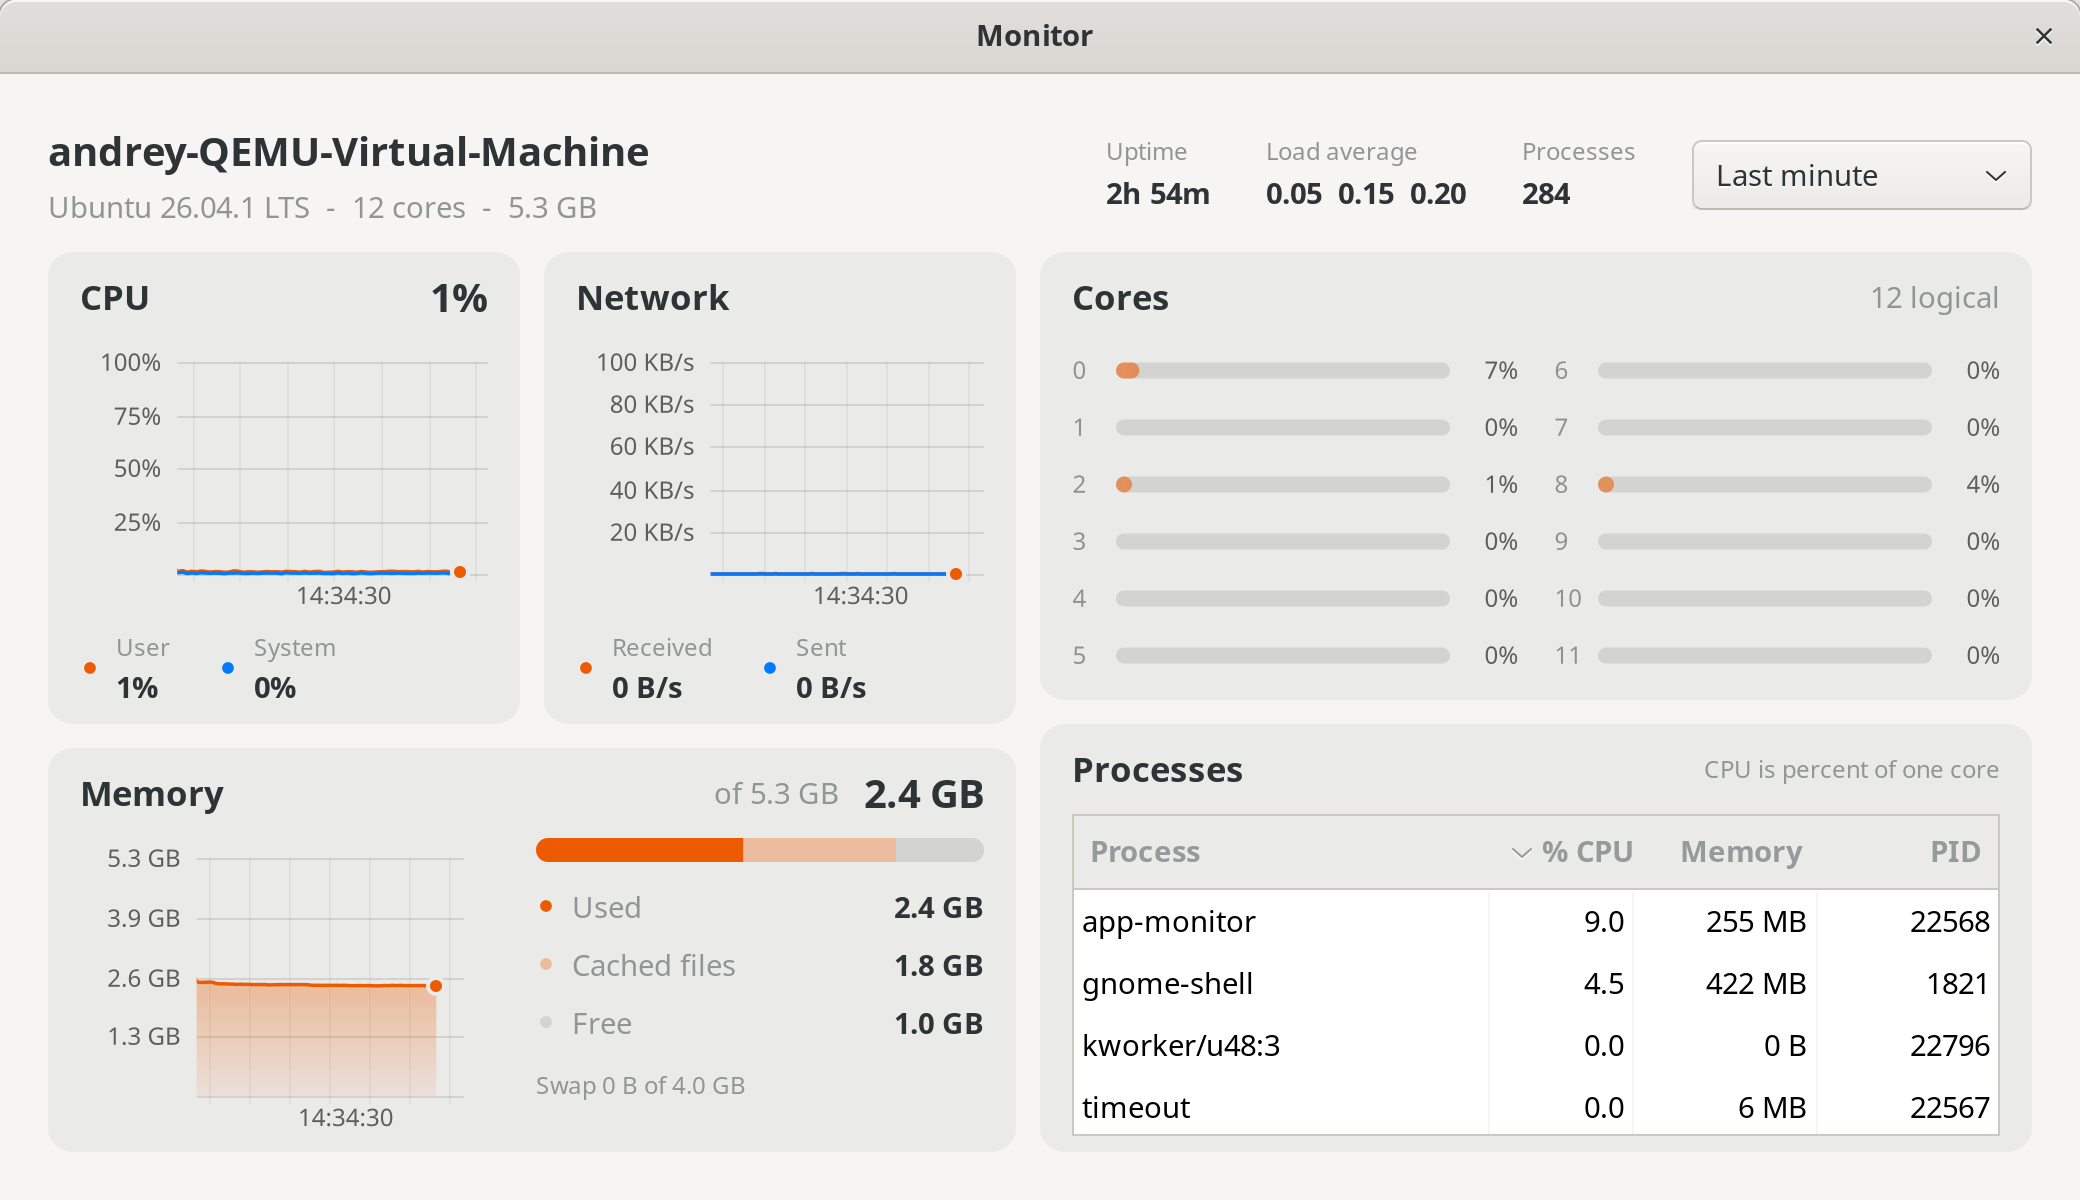
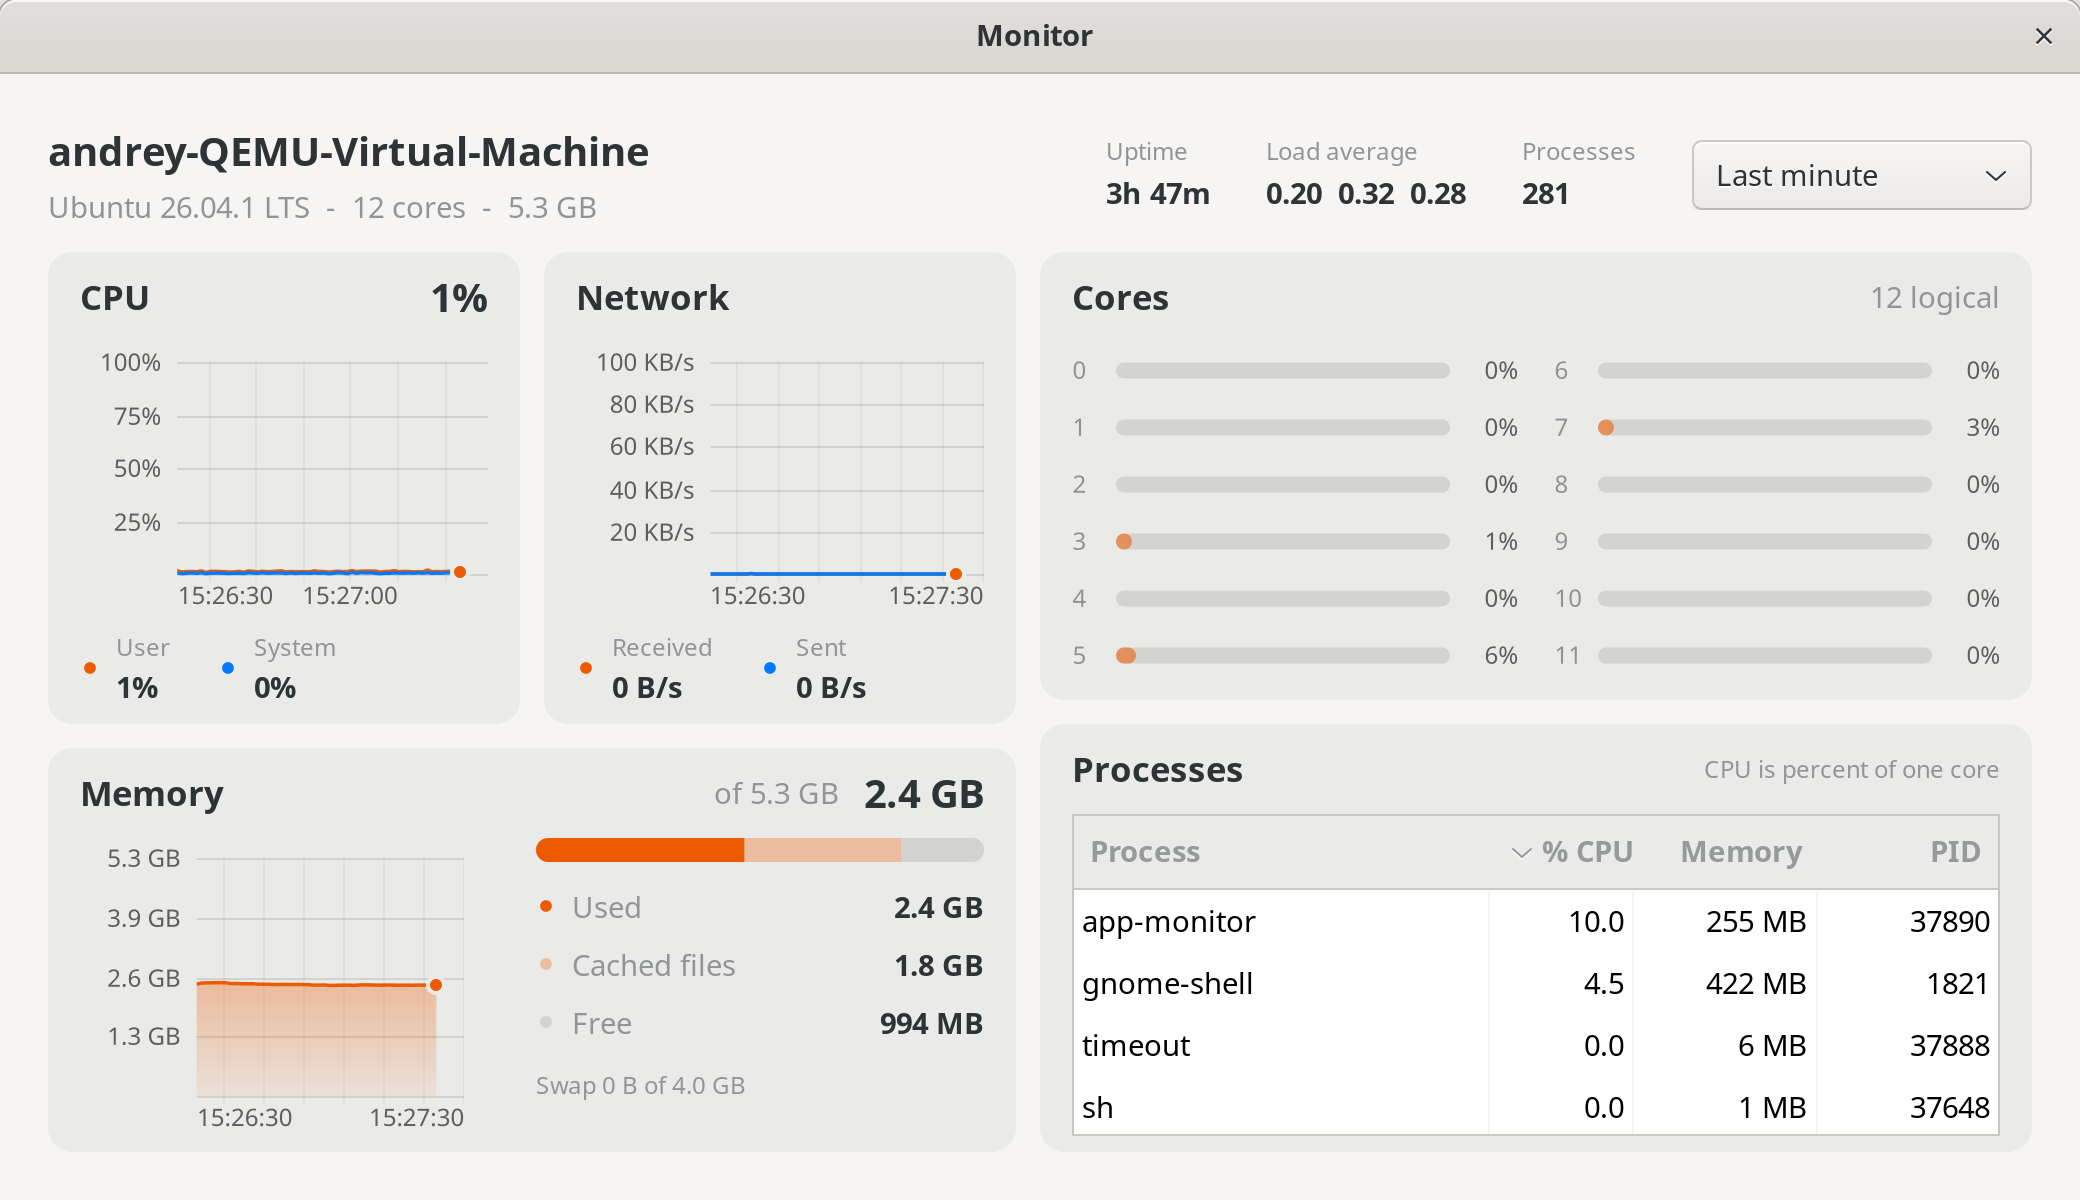
monitor: time labels centred under their ticks and kept inside the plot
A label the plot edge would cut was left out, so a 180 pt plot with labels every 30 s showed
one. Labels are now centred under their tick and moved inside the plot at the edges
(placeLabels); a label that would touch the one before it is still left out.
TestTimeLabelsOnNarrowPlots checks every second of a 60 s window: 2 labels on a 180 pt plot,
3 on 226 and 260 pt plots. Windows and Linux shots taken again.

diff --git a/examples/apps/monitor/tape.go b/examples/apps/monitor/tape.go
@@ -114,6 +114,11 @@ func recordTape(p *tapeParams, ts []float64, vals [][]float64) tapeResult {
 		layout = "15:04:05"
 	}
 	every := labelEvery(p.tickStep*p.pps, gfx.DefaultMeasurer.MeasureText(layout, pal.small).Width+12)
+	lo, hi := math.Inf(-1), math.Inf(1)
+	if p.visHi != 0 {
+		lo, hi = p.visLo, p.visHi
+	}
+	var labels []timeLabel
 	for t := math.Ceil((p.xLo+off)/p.tickStep)*p.tickStep - off; t <= p.xHi; t += p.tickStep {
 		x := math.Round(t*p.pps) + 0.5
 		var l gfx.Path
@@ -123,11 +128,14 @@ func recordTape(p *tapeParams, ts []float64, vals [][]float64) tapeResult {
 		at := p.base.Add(time.Duration(t * float64(time.Second)))
 		// a label on every second tick at most: Pango text is the slow part of a Linux tile
 		if k := math.Round((float64(at.UnixNano())/1e9)/p.tickStep) * p.tickStep; math.Mod(k/p.tickStep, every) == 0 {
-			s := at.Format(layout)
-			if p.visHi == 0 || (x+4 >= p.visLo && x+4+gfx.DefaultMeasurer.MeasureText(s, pal.small).Width <= p.visHi) { // a label the edge would cut is left out
-				r.Text(s, x+4, p.h-5, pal.small, pal.label)
+			if s := at.Format(layout); x >= lo && x <= hi {
+				w := gfx.DefaultMeasurer.MeasureText(s, pal.small).Width
+				labels = append(labels, timeLabel{s, x - w/2, w})
 			}
 		}
+	}
+	for _, l := range placeLabels(labels, lo, hi) {
+		r.Text(l.s, l.x, p.h-5, pal.small, pal.label)
 	}
 	for _, f := range p.fracs {
 		y := math.Round(p.y(f*p.yMax)) + 0.5
@@ -223,6 +231,28 @@ func labelEvery(gap, labelW float64) float64 {
 		}
 	}
 	return 12
+}
+
+// timeLabel is a time label at x, w wide, centred under its tick.
+type timeLabel struct {
+	s    string
+	x, w float64
+}
+
+// placeLabels moves a label the plot edge [lo, hi] would cut inside it (dropped, a narrow plot kept
+// one label) and leaves out a label that would touch the one before it.
+func placeLabels(ls []timeLabel, lo, hi float64) []timeLabel {
+	var out []timeLabel
+	right := math.Inf(-1)
+	for _, l := range ls {
+		l.x = max(min(l.x, hi-l.w), lo)
+		if l.x < right+4 {
+			continue
+		}
+		out = append(out, l)
+		right = l.x + l.w
+	}
+	return out
 }
 
 // niceCeil rounds v up to 1, 2, 2.5, 5 or 10 times a power of ten: the axis moves in readable steps.

diff --git a/examples/apps/monitor/chart_test.go b/examples/apps/monitor/chart_test.go
@@ -206,6 +206,36 @@ func TestLabelEvery(t *testing.T) {
 	}
 }
 
+// A 60 s window keeps at least two time labels on a 180 pt plot and three on a 226 pt one, inside
+// the plot and apart, whatever second the window ends on.
+func TestTimeLabelsOnNarrowPlots(t *testing.T) {
+	// 44 pt is "15:04:05" in the macOS caption font, 50 pt leaves room for wider ones
+	for _, c := range []struct{ plotW, labelW, want float64 }{{180, 50, 2}, {226, 44, 3}, {260, 50, 3}} {
+		labelW := c.labelW
+		pps := (c.plotW - rightPad) / 60
+		every := labelEvery(10*pps, labelW+12)
+		for end := 1000.0; end < 1060; end++ {
+			hi := end*pps + rightPad
+			lo := hi - c.plotW
+			var ls []timeLabel
+			for tk := math.Floor(lo/pps/10) * 10; tk*pps <= hi; tk += 10 {
+				if x := tk * pps; x >= lo && math.Mod(tk/10, every) == 0 {
+					ls = append(ls, timeLabel{"", x - labelW/2, labelW})
+				}
+			}
+			got := placeLabels(ls, lo, hi)
+			if float64(len(got)) < c.want {
+				t.Errorf("%v pt plot ending at %vs: %d labels, want %v", c.plotW, end, len(got), c.want)
+			}
+			for i, l := range got {
+				if l.x < lo || l.x+l.w > hi || i > 0 && l.x < got[i-1].x+got[i-1].w+4 {
+					t.Errorf("%v pt plot ending at %vs: label %d at %.0f..%.0f, plot %.0f..%.0f", c.plotW, end, i, l.x, l.x+l.w, lo, hi)
+				}
+			}
+		}
+	}
+}
+
 // Whatever the system accent, the series of one chart never share a colour.
 func TestSeriesColoursDistinct(t *testing.T) {
 	accents := map[string]gfx.Color{
